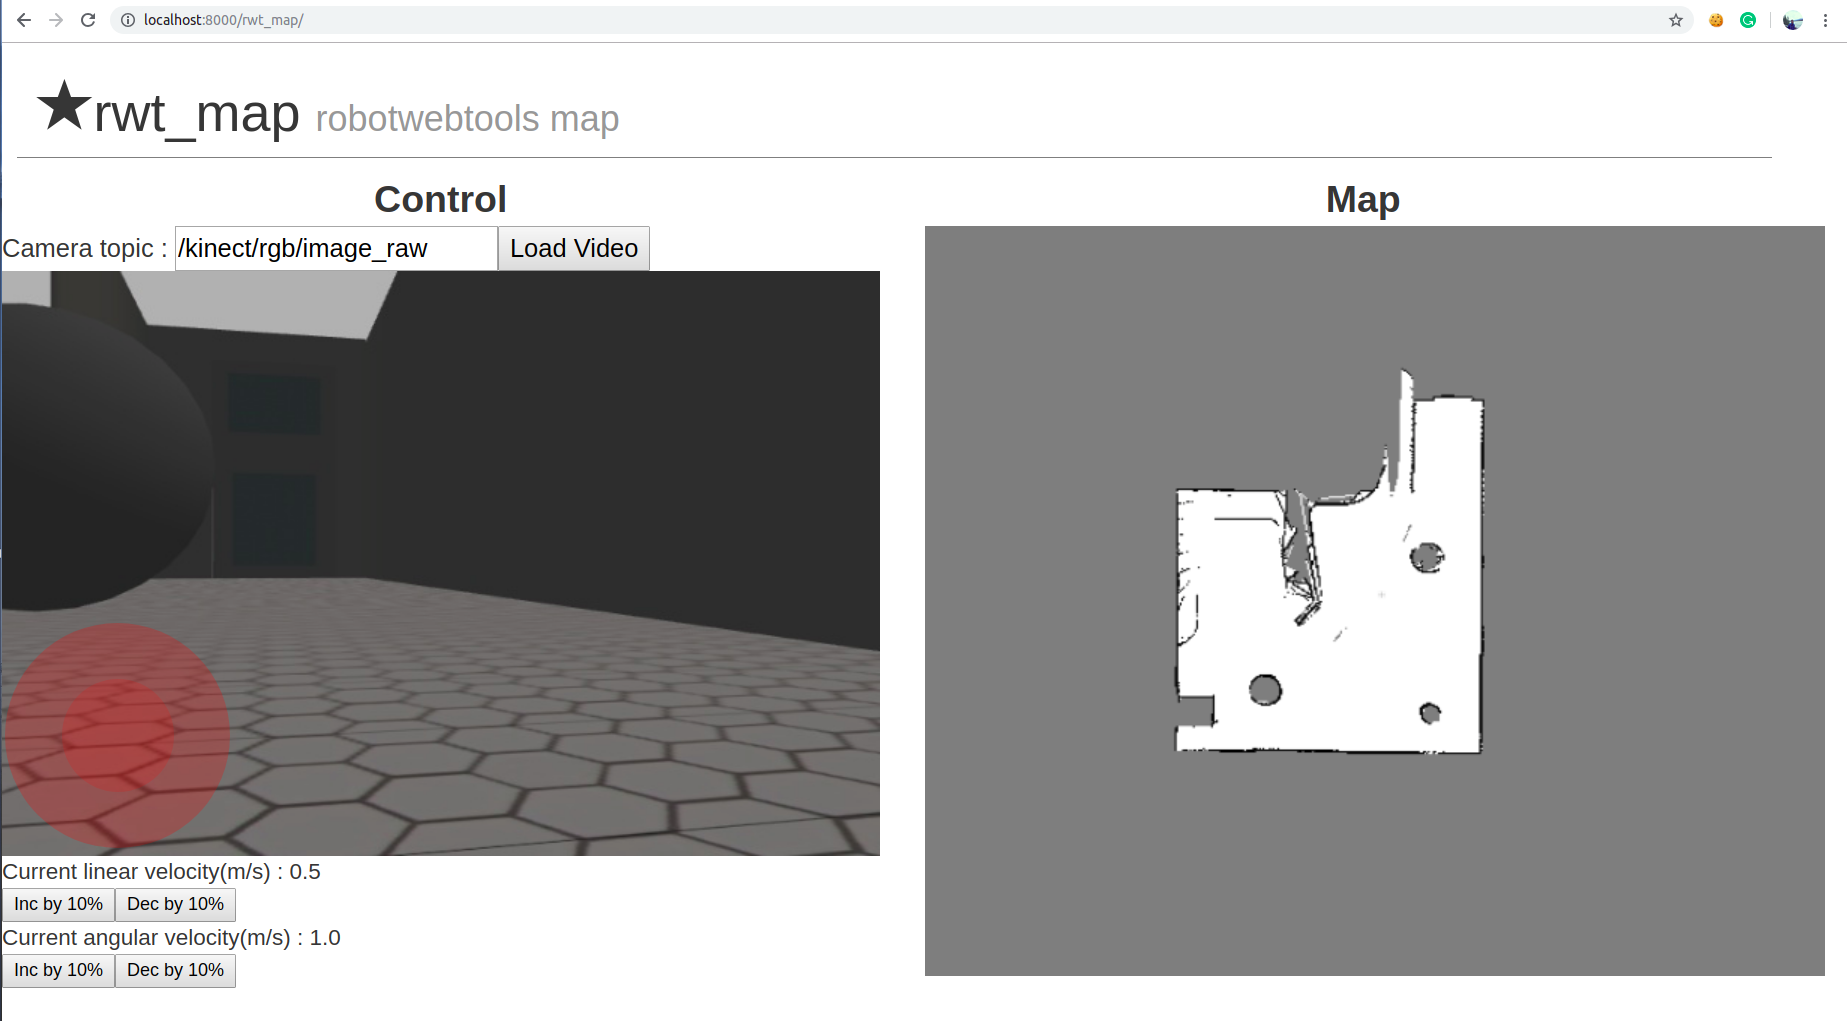
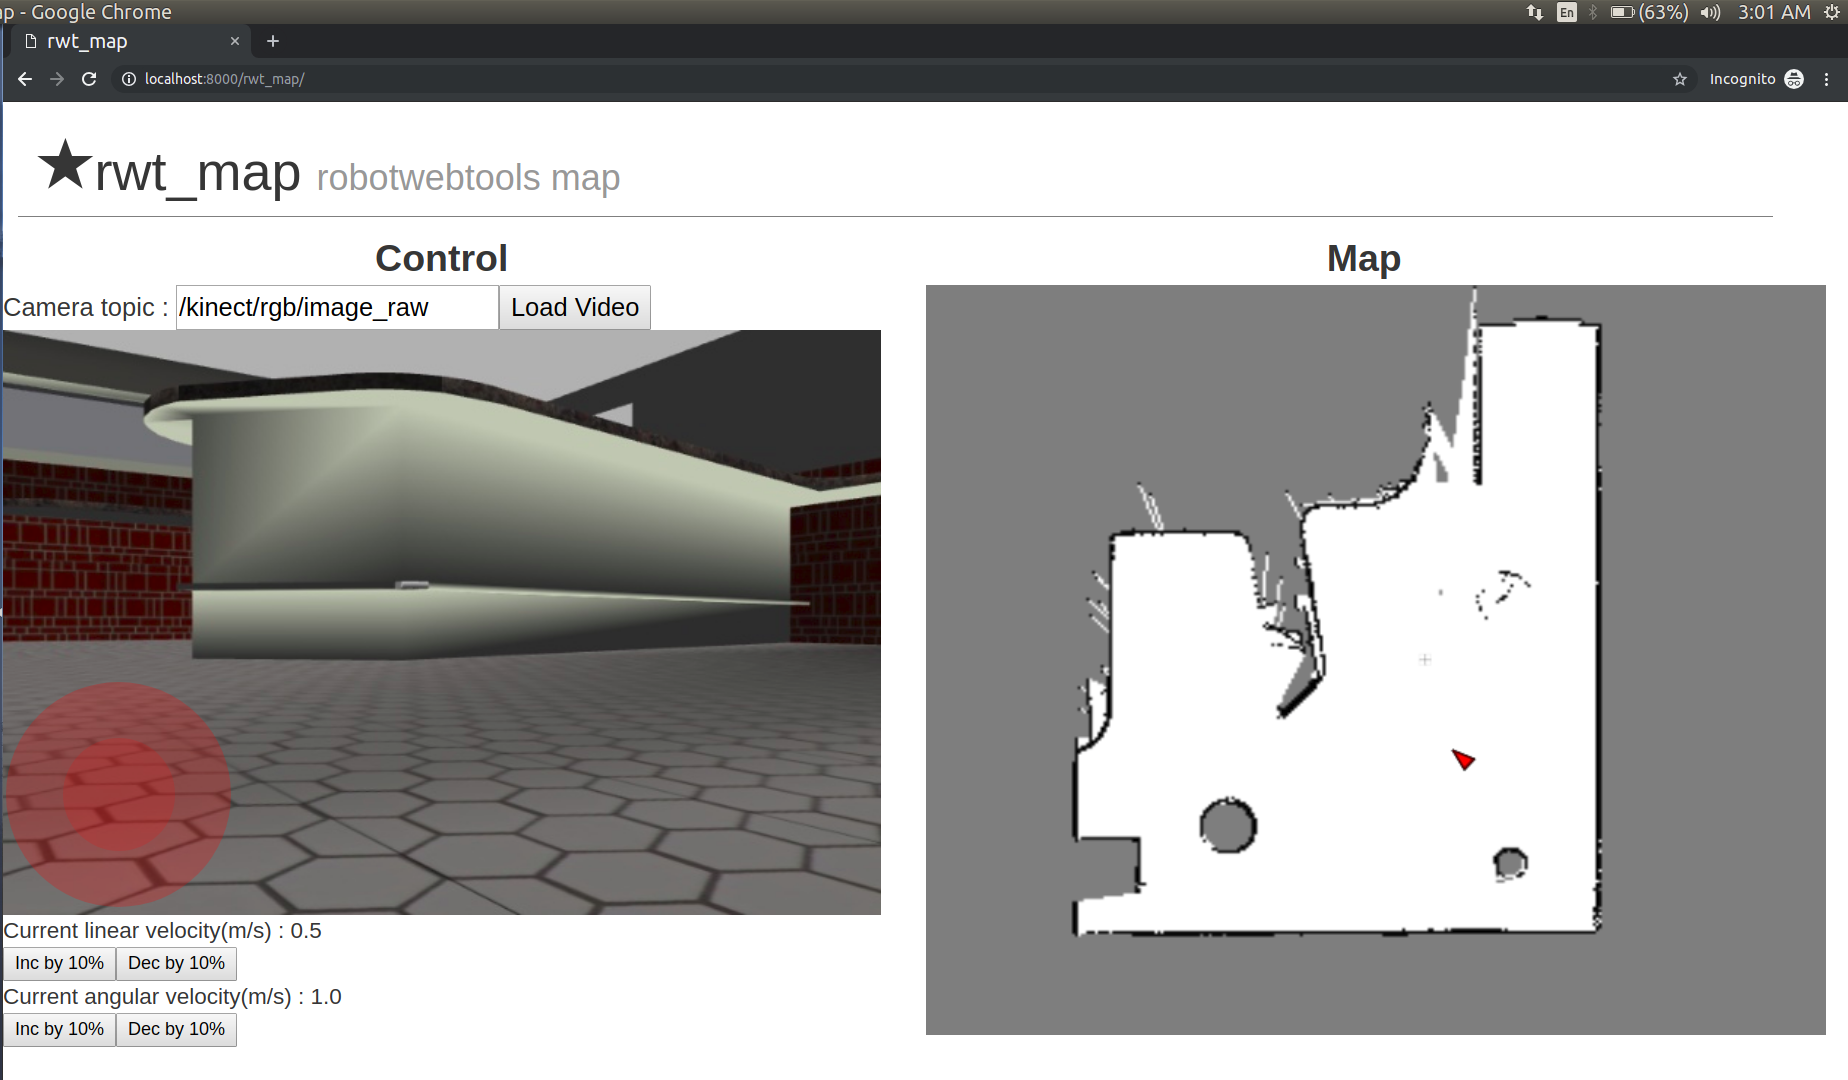
Update rwt_map

diff --git a/rwt_map/www/js/rwt_map.js b/rwt_map/www/js/rwt_map.js
@@ -228,17 +228,25 @@ function viewMap() {
         });
     
         var robotMarker = new ROS2D.NavigationArrow({
-            size : 0.1,
-            strokeSize : 0.005,
+            size : 0.2,
+            strokeSize : 0.01,
             pulse : true
     
         });
     
         poseTopic.subscribe(
             function (pose) {
-                console.log(pose);
                 robotMarker.x = pose.position.x;
                 robotMarker.y = -pose.position.y;
+                var quaZ = pose.orientation.z;
+                var degreeZ = 0;
+                if( quaZ >= 0 ) {
+                    degreeZ = quaZ / 1 * 180
+                } 
+                else {
+                    degreeZ = (-quaZ) / 1 * 180 + 180
+                };
+                robotMarker.rotation = -degreeZ + 35;
             }
         )
 

diff --git a/rwt_map/README.md b/rwt_map/README.md
@@ -20,6 +20,11 @@ for example : `http://localhost:8000/rwt_map/`
 - View the map built in real time
 - Ctrl + mouse movement = Zoom
 - Shift + mouse movement = Pan
+
+To view live location of robot :
+```
+rosrun robot_pose_publisher robot_pose_publisher
+```
 - Current position of the robot is shown by Red Arrow 
 
 ![rwt_map.png](images/rwt_map.png)
